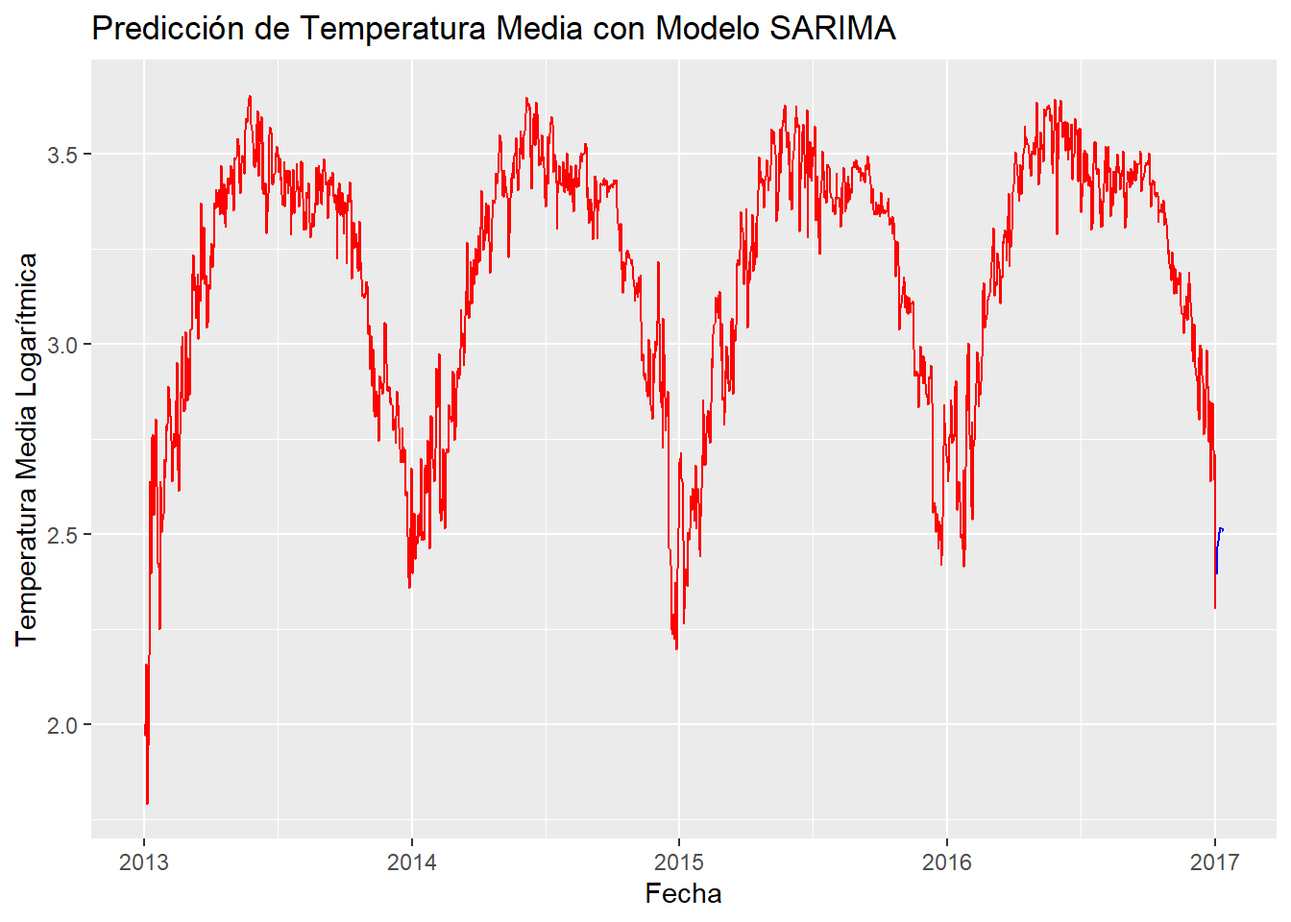
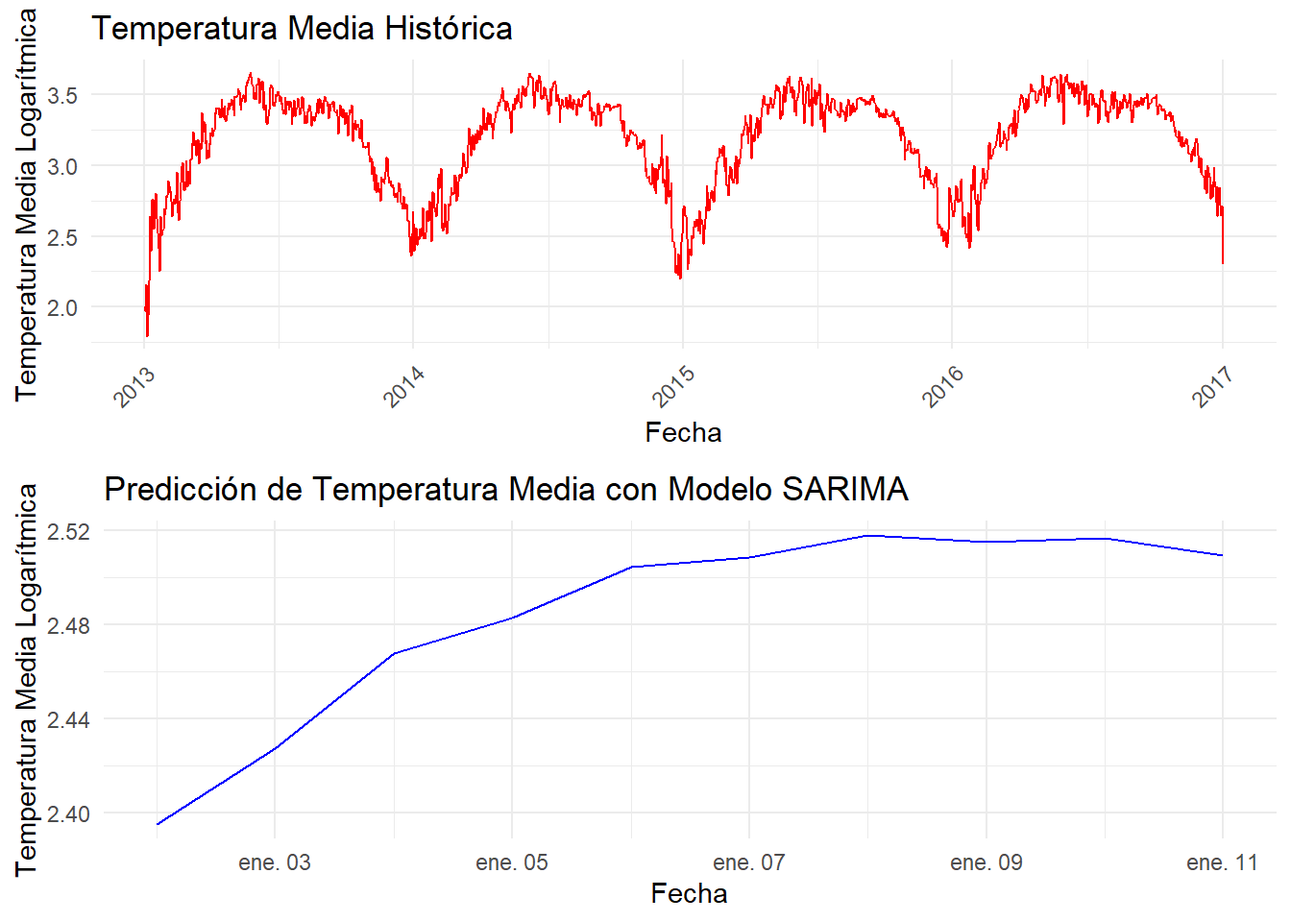
bb

diff --git a/modulo-3---unidad-2.html b/modulo-3---unidad-2.html
@@ -4,18 +4,18 @@
 
   <meta charset="utf-8" />
   <meta http-equiv="X-UA-Compatible" content="IE=edge" />
-  <title>Documento Bookdown Propuesta</title>
+  <title>Chapter 7 Modulo 3 - Unidad 2 | Documento Bookdown Propuesta</title>
   <meta name="description" content="Bookdown propuesto para la asignatura Series de Tiempo." />
   <meta name="generator" content="bookdown 0.35 and GitBook 2.6.7" />
 
-  <meta property="og:title" content="Documento Bookdown Propuesta" />
+  <meta property="og:title" content="Chapter 7 Modulo 3 - Unidad 2 | Documento Bookdown Propuesta" />
   <meta property="og:type" content="book" />
   
   <meta property="og:description" content="Bookdown propuesto para la asignatura Series de Tiempo." />
   <meta name="github-repo" content="rstudio/bookdown-demo" />
 
   <meta name="twitter:card" content="summary" />
-  <meta name="twitter:title" content="Documento Bookdown Propuesta" />
+  <meta name="twitter:title" content="Chapter 7 Modulo 3 - Unidad 2 | Documento Bookdown Propuesta" />
   
   <meta name="twitter:description" content="Bookdown propuesto para la asignatura Series de Tiempo." />
   
@@ -29,8 +29,8 @@
   <meta name="apple-mobile-web-app-status-bar-style" content="black" />
   
   
+<link rel="prev" href="modulo-2---unidad-2.html"/>
 
-<link rel="next" href="modulo-1---unidad-1.html"/>
 <script src="libs/jquery-3.6.0/jquery-3.6.0.min.js"></script>
 <script src="https://cdn.jsdelivr.net/npm/fuse.js@6.4.6/dist/fuse.min.js"></script>
 <link href="libs/gitbook-2.6.7/css/style.css" rel="stylesheet" />
@@ -193,34 +193,96 @@ code span.wa { color: #60a0b0; font-weight: bold; font-style: italic; } /* Warni
           <div class="page-inner">
 
             <section class="normal" id="section-">
-<div id="header">
-<h1 class="title">Documento Bookdown Propuesta</h1>
-<p class="author"><em>Diego Fernando Ortiz</em></p>
-<p class="date"><em>Daily Climate time series data</em></p>
-</div>
-<div id="inicio" class="section level1 hasAnchor" number="1">
-<h1><span class="header-section-number">Chapter 1</span> Inicio<a href="inicio.html#inicio" class="anchor-section" aria-label="Anchor link to header"></a></h1>
-<p><strong>Fuente:</strong> <a href="https://www.kaggle.com/datasets/sumanthvrao/daily-climate-time-series-data">Kaggle</a></p>
+<div id="modulo-3---unidad-2" class="section level1 hasAnchor" number="7">
+<h1><span class="header-section-number">Chapter 7</span> Modulo 3 - Unidad 2<a href="modulo-3---unidad-2.html#modulo-3---unidad-2" class="anchor-section" aria-label="Anchor link to header"></a></h1>
+<div class="sourceCode" id="cb76"><pre class="sourceCode r"><code class="sourceCode r"><span id="cb76-1"><a href="modulo-3---unidad-2.html#cb76-1" tabindex="-1"></a><span class="co"># Cargar las librerías necesarias</span></span>
+<span id="cb76-2"><a href="modulo-3---unidad-2.html#cb76-2" tabindex="-1"></a><span class="fu">library</span>(prophet)</span>
+<span id="cb76-3"><a href="modulo-3---unidad-2.html#cb76-3" tabindex="-1"></a><span class="fu">library</span>(dplyr)</span>
+<span id="cb76-4"><a href="modulo-3---unidad-2.html#cb76-4" tabindex="-1"></a></span>
+<span id="cb76-5"><a href="modulo-3---unidad-2.html#cb76-5" tabindex="-1"></a><span class="co"># Cargar el dataset</span></span>
+<span id="cb76-6"><a href="modulo-3---unidad-2.html#cb76-6" tabindex="-1"></a>ruta <span class="ot">&lt;-</span> <span class="st">&quot;C:/Users/Diego Ortiz/OneDrive/Documentos/Series de tiempo/Series1/ST1/DailyDelhiClimateTrain.csv&quot;</span></span>
+<span id="cb76-7"><a href="modulo-3---unidad-2.html#cb76-7" tabindex="-1"></a>data <span class="ot">&lt;-</span> <span class="fu">read.csv</span>(ruta)</span>
+<span id="cb76-8"><a href="modulo-3---unidad-2.html#cb76-8" tabindex="-1"></a></span>
+<span id="cb76-9"><a href="modulo-3---unidad-2.html#cb76-9" tabindex="-1"></a><span class="co"># Ajuste del formato de la fecha y creación del DataFrame requerido para Prophet</span></span>
+<span id="cb76-10"><a href="modulo-3---unidad-2.html#cb76-10" tabindex="-1"></a>data <span class="ot">&lt;-</span> data <span class="sc">%&gt;%</span></span>
+<span id="cb76-11"><a href="modulo-3---unidad-2.html#cb76-11" tabindex="-1"></a>  <span class="fu">mutate</span>(<span class="at">ds =</span> <span class="fu">as.Date</span>(date),</span>
+<span id="cb76-12"><a href="modulo-3---unidad-2.html#cb76-12" tabindex="-1"></a>         <span class="at">y =</span> <span class="fu">log</span>(meantemp)) <span class="sc">%&gt;%</span></span>
+<span id="cb76-13"><a href="modulo-3---unidad-2.html#cb76-13" tabindex="-1"></a>  <span class="fu">select</span>(ds, y)</span>
+<span id="cb76-14"><a href="modulo-3---unidad-2.html#cb76-14" tabindex="-1"></a></span>
+<span id="cb76-15"><a href="modulo-3---unidad-2.html#cb76-15" tabindex="-1"></a><span class="co"># Verificar los primeros registros</span></span>
+<span id="cb76-16"><a href="modulo-3---unidad-2.html#cb76-16" tabindex="-1"></a><span class="fu">head</span>(data)</span></code></pre></div>
+<pre><code>##           ds        y
+## 1 2013-01-01 2.302585
+## 2 2013-01-02 2.001480
+## 3 2013-01-03 1.969441
+## 4 2013-01-04 2.159484
+## 5 2013-01-05 1.791759
+## 6 2013-01-06 1.945910</code></pre>
+<div class="sourceCode" id="cb78"><pre class="sourceCode r"><code class="sourceCode r"><span id="cb78-1"><a href="modulo-3---unidad-2.html#cb78-1" tabindex="-1"></a><span class="co"># Crear un DataFrame para las fechas futuras</span></span>
+<span id="cb78-2"><a href="modulo-3---unidad-2.html#cb78-2" tabindex="-1"></a>future <span class="ot">&lt;-</span> <span class="fu">make_future_dataframe</span>(prophet_model, <span class="at">periods =</span> <span class="dv">365</span>)  <span class="co"># Predice para un año más</span></span>
+<span id="cb78-3"><a href="modulo-3---unidad-2.html#cb78-3" tabindex="-1"></a></span>
+<span id="cb78-4"><a href="modulo-3---unidad-2.html#cb78-4" tabindex="-1"></a><span class="co"># Realizar la predicción</span></span>
+<span id="cb78-5"><a href="modulo-3---unidad-2.html#cb78-5" tabindex="-1"></a>forecast <span class="ot">&lt;-</span> <span class="fu">predict</span>(prophet_model, future)</span>
+<span id="cb78-6"><a href="modulo-3---unidad-2.html#cb78-6" tabindex="-1"></a></span>
+<span id="cb78-7"><a href="modulo-3---unidad-2.html#cb78-7" tabindex="-1"></a><span class="co"># Visualización de las predicciones</span></span>
+<span id="cb78-8"><a href="modulo-3---unidad-2.html#cb78-8" tabindex="-1"></a><span class="fu">prophet_plot_components</span>(prophet_model, forecast)</span></code></pre></div>
+<p><img src="index_files/figure-html/unnamed-chunk-41-1.png" width="672" />
+<strong>Tendencia (Trend):</strong></p>
+<p>La primera gráfica muestra la tendencia general de la serie temporal. Se observa un aumento gradual de la temperatura media logarítmica a lo largo del tiempo.</p>
+<p><strong>Estacionalidad Semanal (Weekly Seasonality):</strong></p>
+<p>La segunda gráfica muestra la estacionalidad semanal. Se observa que los miércoles tienden a ser ligeramente más cálidos en comparación con otros días de la semana.</p>
+<p><strong>Estacionalidad Anual (Yearly Seasonality):</strong></p>
+<p>La tercera gráfica muestra la estacionalidad anual. Se puede ver que las temperaturas tienden a ser más altas alrededor de julio y más bajas alrededor de enero, lo cual es consistente con los patrones climáticos estacionales.</p>
+<div class="sourceCode" id="cb79"><pre class="sourceCode r"><code class="sourceCode r"><span id="cb79-1"><a href="modulo-3---unidad-2.html#cb79-1" tabindex="-1"></a><span class="co"># Plotear las predicciones</span></span>
+<span id="cb79-2"><a href="modulo-3---unidad-2.html#cb79-2" tabindex="-1"></a><span class="fu">plot</span>(prophet_model, forecast) <span class="sc">+</span></span>
+<span id="cb79-3"><a href="modulo-3---unidad-2.html#cb79-3" tabindex="-1"></a>  <span class="fu">labs</span>(<span class="at">title =</span> <span class="st">&quot;Predicción de Temperatura Media con Prophet&quot;</span>,</span>
+<span id="cb79-4"><a href="modulo-3---unidad-2.html#cb79-4" tabindex="-1"></a>       <span class="at">x =</span> <span class="st">&quot;Fecha&quot;</span>, <span class="at">y =</span> <span class="st">&quot;Temperatura Media Logarítmica&quot;</span>)</span></code></pre></div>
+<p><img src="index_files/figure-html/unnamed-chunk-42-1.png" width="672" /></p>
+<p><strong>Datos Históricos:</strong></p>
 <ul>
-<li><p><strong>Relevancia Temática</strong>
-Aunque el dataset es específico de Delhi, India, la observación de tendencias y patrones en el comportamiento climático en una región que experimenta variaciones significativas puede proporcionar información valiosa. Estos datos pueden servir como un estudio comparativo para anticipar escenarios posibles en Colombia, especialmente bajo condiciones climáticas extremas similares.</p></li>
-<li><p><strong>Datos Detallados y Granulares</strong>
-El conjunto de datos ofrece mediciones diarias desde el 1 de enero de 2013 hasta el 24 de abril de 2017, proporcionando un marco detallado para el análisis de tendencias a largo plazo y variaciones estacionales en Delhi. Esta granularidad facilita el estudio detallado de la relación entre las variaciones de temperatura y otros parámetros climáticos, crucial para entender las dinámicas ambientales que pueden ser similares en otras partes del mundo, incluida Colombia.</p></li>
-<li><p><strong>Aplicabilidad de Análisis Multivariado</strong>
-Con variables como temperatura media, humedad, velocidad del viento y presión media, es posible realizar análisis multivariado para investigar cómo las fluctuaciones de estos elementos se correlacionan entre sí y afectan condiciones ambientales más amplias. Esto es relevante para estudiar posibles vínculos entre altas temperaturas y sequías, un fenómeno preocupante también en Colombia.</p></li>
-<li><p><strong>Comparación Interregional</strong>
-Mientras que este conjunto de datos es específico de una ciudad, los métodos analíticos aplicados aquí pueden ser extrapolados para comparar diferentes regiones dentro de Colombia, un país con una diversidad climática considerable. Entender cómo diferentes microclimas responden a variaciones similares en parámetros climáticos puede ofrecer insights cruciales para la gestión de recursos y la preparación ante eventos extremos.</p></li>
-<li><p><strong>Soporte para Modelos Predictivos</strong>
-Utilizando este conjunto de datos, podemos desarrollar y validar modelos predictivos que estimen el impacto de las variaciones climáticas en los recursos hídricos. Tales modelos no solo son pertinentes para la región de Delhi sino que pueden ser adaptados para prever y mitigar efectos similares en Colombia, especialmente en preparación para futuros eventos climáticos extremos.</p></li>
+<li>Los puntos negros representan los datos históricos de la temperatura media logarítmica. Observamos patrones estacionales anuales claramente definidos con picos en los meses de verano y valles en los meses de invierno.</li>
 </ul>
+<p><strong>Predicciones del Modelo:</strong></p>
+<ul>
+<li>La línea azul muestra las predicciones del modelo Prophet. Las áreas sombreadas en azul claro alrededor de la línea de predicción representan los intervalos de confianza de las predicciones. Estos intervalos nos dan una idea de la incertidumbre en las predicciones.</li>
+</ul>
+<p><strong>Consistencia del Modelo:</strong></p>
+<ul>
+<li>La línea de predicción sigue de cerca los datos históricos, lo que indica que el modelo Prophet ha capturado bien la estacionalidad y la tendencia de la serie temporal.</li>
+<li>Las predicciones para el futuro (a partir de 2017) muestran una tendencia continua con el mismo patrón estacional observado en los datos históricos.</li>
+</ul>
+<div id="justificación-del-uso-de-prophet" class="section level2 hasAnchor" number="7.1">
+<h2><span class="header-section-number">7.1</span> Justificación del Uso de Prophet<a href="modulo-3---unidad-2.html#justificación-del-uso-de-prophet" class="anchor-section" aria-label="Anchor link to header"></a></h2>
+<p>El uso de Prophet es justificado debido a varias razones:</p>
+<ul>
+<li><strong>Captura de Estacionalidades Complejas:</strong></li>
+</ul>
+<p>Prophet es capaz de capturar estacionalidades múltiples (diaria, semanal, anual) y permite la incorporación de efectos de festivos o eventos especiales.</p>
+<ul>
+<li><strong>Robustez a Datos Faltantes y Outliers:</strong></li>
+</ul>
+<p>Es robusto frente a datos faltantes y outliers, lo que lo hace adecuado para datos reales que pueden tener estos problemas.</p>
+<ul>
+<li><strong>Facilidad de Uso y Interpretabilidad:</strong></li>
+</ul>
+<p>La implementación es sencilla y la interpretación de los resultados es intuitiva, con componentes de tendencia y estacionalidad claramente definidos.</p>
+<ul>
+<li><strong>Predicción a Largo Plazo:</strong></li>
+</ul>
+<p>Es adecuado para predicciones a largo plazo debido a su capacidad para modelar tendencias no lineales y estacionalidades recurrentes.</p>
+<ul>
+<li><strong>Comparación con Otros Modelos:</strong></li>
+</ul>
+<p>Comparado con otros modelos como ARIMA, Prophet ofrece una metodología complementaria que es menos sensible a la necesidad de diferenciar los datos para lograr la estacionaridad.</p>
+</div>
 </div>
             </section>
 
           </div>
         </div>
       </div>
+<a href="modulo-2---unidad-2.html" class="navigation navigation-prev navigation-unique" aria-label="Previous page"><i class="fa fa-angle-left"></i></a>
 
-<a href="modulo-1---unidad-1.html" class="navigation navigation-next navigation-unique" aria-label="Next page"><i class="fa fa-angle-right"></i></a>
     </div>
   </div>
 <script src="libs/gitbook-2.6.7/js/app.min.js"></script>

diff --git a/modulo-2---unidad-2.html b/modulo-2---unidad-2.html
@@ -30,7 +30,7 @@
   
   
 <link rel="prev" href="modulo-2---unidad-1.html"/>
-
+<link rel="next" href="modulo-3---unidad-2.html"/>
 <script src="libs/jquery-3.6.0/jquery-3.6.0.min.js"></script>
 <script src="https://cdn.jsdelivr.net/npm/fuse.js@6.4.6/dist/fuse.min.js"></script>
 <link href="libs/gitbook-2.6.7/css/style.css" rel="stylesheet" />
@@ -171,6 +171,10 @@ code span.wa { color: #60a0b0; font-weight: bold; font-style: italic; } /* Warni
 <li class="chapter" data-level="6.4" data-path="modulo-2---unidad-2.html"><a href="modulo-2---unidad-2.html#diagnóstico-del-modelo"><i class="fa fa-check"></i><b>6.4</b> Diagnóstico del Modelo</a></li>
 <li class="chapter" data-level="6.5" data-path="modulo-2---unidad-2.html"><a href="modulo-2---unidad-2.html#previsión-futura"><i class="fa fa-check"></i><b>6.5</b> Previsión Futura</a></li>
 <li class="chapter" data-level="6.6" data-path="modulo-2---unidad-2.html"><a href="modulo-2---unidad-2.html#sarima"><i class="fa fa-check"></i><b>6.6</b> SARIMA</a></li>
+</ul></li>
+<li class="chapter" data-level="7" data-path="modulo-3---unidad-2.html"><a href="modulo-3---unidad-2.html"><i class="fa fa-check"></i><b>7</b> Modulo 3 - Unidad 2</a>
+<ul>
+<li class="chapter" data-level="7.1" data-path="modulo-3---unidad-2.html"><a href="modulo-3---unidad-2.html#justificación-del-uso-de-prophet"><i class="fa fa-check"></i><b>7.1</b> Justificación del Uso de Prophet</a></li>
 </ul></li>
 </ul>
 
@@ -475,13 +479,30 @@ La prueba de Ljung-Box se utiliza para verificar la autocorrelación en los resi
 <span id="cb75-5"><a href="modulo-2---unidad-2.html#cb75-5" tabindex="-1"></a>future_dates <span class="ot">&lt;-</span> <span class="fu">seq</span>(<span class="fu">max</span>(data<span class="sc">$</span>date) <span class="sc">+</span> <span class="dv">1</span>, <span class="at">by =</span> <span class="st">&quot;day&quot;</span>, <span class="at">length.out =</span> <span class="dv">10</span>)</span>
 <span id="cb75-6"><a href="modulo-2---unidad-2.html#cb75-6" tabindex="-1"></a>future_data <span class="ot">&lt;-</span> <span class="fu">data.frame</span>(<span class="at">date =</span> future_dates, <span class="at">meantemp_log =</span> sarima_forecast<span class="sc">$</span>mean)</span>
 <span id="cb75-7"><a href="modulo-2---unidad-2.html#cb75-7" tabindex="-1"></a></span>
-<span id="cb75-8"><a href="modulo-2---unidad-2.html#cb75-8" tabindex="-1"></a><span class="co"># Visualización de las predicciones</span></span>
-<span id="cb75-9"><a href="modulo-2---unidad-2.html#cb75-9" tabindex="-1"></a><span class="fu">ggplot</span>() <span class="sc">+</span></span>
-<span id="cb75-10"><a href="modulo-2---unidad-2.html#cb75-10" tabindex="-1"></a>  <span class="fu">geom_line</span>(<span class="at">data =</span> data, <span class="fu">aes</span>(<span class="at">x =</span> date, <span class="at">y =</span> meantemp_log), <span class="at">color =</span> <span class="st">&quot;red&quot;</span>) <span class="sc">+</span></span>
-<span id="cb75-11"><a href="modulo-2---unidad-2.html#cb75-11" tabindex="-1"></a>  <span class="fu">geom_line</span>(<span class="at">data =</span> future_data, <span class="fu">aes</span>(<span class="at">x =</span> date, <span class="at">y =</span> meantemp_log), <span class="at">color =</span> <span class="st">&quot;blue&quot;</span>) <span class="sc">+</span></span>
-<span id="cb75-12"><a href="modulo-2---unidad-2.html#cb75-12" tabindex="-1"></a>  <span class="fu">labs</span>(<span class="at">title =</span> <span class="st">&quot;Predicción de Temperatura Media con Modelo SARIMA&quot;</span>,</span>
-<span id="cb75-13"><a href="modulo-2---unidad-2.html#cb75-13" tabindex="-1"></a>       <span class="at">x =</span> <span class="st">&quot;Fecha&quot;</span>, <span class="at">y =</span> <span class="st">&quot;Temperatura Media Logarítmica&quot;</span>)</span></code></pre></div>
+<span id="cb75-8"><a href="modulo-2---unidad-2.html#cb75-8" tabindex="-1"></a><span class="co"># Gráfico de los datos históricos</span></span>
+<span id="cb75-9"><a href="modulo-2---unidad-2.html#cb75-9" tabindex="-1"></a>p1 <span class="ot">&lt;-</span> <span class="fu">ggplot</span>(data, <span class="fu">aes</span>(<span class="at">x =</span> date, <span class="at">y =</span> meantemp_log)) <span class="sc">+</span></span>
+<span id="cb75-10"><a href="modulo-2---unidad-2.html#cb75-10" tabindex="-1"></a>  <span class="fu">geom_line</span>(<span class="at">color =</span> <span class="st">&quot;red&quot;</span>) <span class="sc">+</span></span>
+<span id="cb75-11"><a href="modulo-2---unidad-2.html#cb75-11" tabindex="-1"></a>  <span class="fu">labs</span>(<span class="at">title =</span> <span class="st">&quot;Temperatura Media Histórica&quot;</span>,</span>
+<span id="cb75-12"><a href="modulo-2---unidad-2.html#cb75-12" tabindex="-1"></a>       <span class="at">x =</span> <span class="st">&quot;Fecha&quot;</span>, <span class="at">y =</span> <span class="st">&quot;Temperatura Media Logarítmica&quot;</span>) <span class="sc">+</span></span>
+<span id="cb75-13"><a href="modulo-2---unidad-2.html#cb75-13" tabindex="-1"></a>  <span class="fu">theme_minimal</span>() <span class="sc">+</span></span>
+<span id="cb75-14"><a href="modulo-2---unidad-2.html#cb75-14" tabindex="-1"></a>  <span class="fu">scale_x_date</span>(<span class="at">date_labels =</span> <span class="st">&quot;%Y&quot;</span>, <span class="at">date_breaks =</span> <span class="st">&quot;1 year&quot;</span>) <span class="sc">+</span></span>
+<span id="cb75-15"><a href="modulo-2---unidad-2.html#cb75-15" tabindex="-1"></a>  <span class="fu">theme</span>(<span class="at">axis.text.x =</span> <span class="fu">element_text</span>(<span class="at">angle =</span> <span class="dv">45</span>, <span class="at">hjust =</span> <span class="dv">1</span>))</span>
+<span id="cb75-16"><a href="modulo-2---unidad-2.html#cb75-16" tabindex="-1"></a></span>
+<span id="cb75-17"><a href="modulo-2---unidad-2.html#cb75-17" tabindex="-1"></a><span class="co"># Gráfico de las predicciones futuras</span></span>
+<span id="cb75-18"><a href="modulo-2---unidad-2.html#cb75-18" tabindex="-1"></a>p2 <span class="ot">&lt;-</span> <span class="fu">ggplot</span>(future_data, <span class="fu">aes</span>(<span class="at">x =</span> date, <span class="at">y =</span> meantemp_log)) <span class="sc">+</span></span>
+<span id="cb75-19"><a href="modulo-2---unidad-2.html#cb75-19" tabindex="-1"></a>  <span class="fu">geom_line</span>(<span class="at">color =</span> <span class="st">&quot;blue&quot;</span>) <span class="sc">+</span></span>
+<span id="cb75-20"><a href="modulo-2---unidad-2.html#cb75-20" tabindex="-1"></a>  <span class="fu">labs</span>(<span class="at">title =</span> <span class="st">&quot;Predicción de Temperatura Media con Modelo SARIMA&quot;</span>,</span>
+<span id="cb75-21"><a href="modulo-2---unidad-2.html#cb75-21" tabindex="-1"></a>       <span class="at">x =</span> <span class="st">&quot;Fecha&quot;</span>, <span class="at">y =</span> <span class="st">&quot;Temperatura Media Logarítmica&quot;</span>) <span class="sc">+</span></span>
+<span id="cb75-22"><a href="modulo-2---unidad-2.html#cb75-22" tabindex="-1"></a>  <span class="fu">theme_minimal</span>()</span>
+<span id="cb75-23"><a href="modulo-2---unidad-2.html#cb75-23" tabindex="-1"></a></span>
+<span id="cb75-24"><a href="modulo-2---unidad-2.html#cb75-24" tabindex="-1"></a><span class="co"># Mostrar ambos gráficos</span></span>
+<span id="cb75-25"><a href="modulo-2---unidad-2.html#cb75-25" tabindex="-1"></a><span class="fu">library</span>(gridExtra)</span>
+<span id="cb75-26"><a href="modulo-2---unidad-2.html#cb75-26" tabindex="-1"></a><span class="fu">grid.arrange</span>(p1, p2, <span class="at">ncol =</span> <span class="dv">1</span>)</span></code></pre></div>
 <p><img src="index_files/figure-html/unnamed-chunk-38-1.png" width="672" /></p>
+<p><strong>Históricos:</strong></p>
+<p>El gráfico superior muestra las temperaturas medias logarítmicas históricas con una estacionalidad clara. Los picos y valles anuales son evidentes.</p>
+<p><strong>Predicciones Futura:</strong></p>
+<p>El gráfico inferior muestra la predicción futura para los próximos 10 días, con un aumento gradual y una estabilización.</p>
 </div>
 </div>
             </section>
@@ -489,8 +510,8 @@ La prueba de Ljung-Box se utiliza para verificar la autocorrelación en los resi
           </div>
         </div>
       </div>
-<a href="modulo-2---unidad-1.html" class="navigation navigation-prev navigation-unique" aria-label="Previous page"><i class="fa fa-angle-left"></i></a>
-
+<a href="modulo-2---unidad-1.html" class="navigation navigation-prev " aria-label="Previous page"><i class="fa fa-angle-left"></i></a>
+<a href="modulo-3---unidad-2.html" class="navigation navigation-next " aria-label="Next page"><i class="fa fa-angle-right"></i></a>
     </div>
   </div>
 <script src="libs/gitbook-2.6.7/js/app.min.js"></script>

diff --git a/modulo-1---unidad-1.html b/modulo-1---unidad-1.html
@@ -172,6 +172,10 @@ code span.wa { color: #60a0b0; font-weight: bold; font-style: italic; } /* Warni
 <li class="chapter" data-level="6.5" data-path="modulo-2---unidad-2.html"><a href="modulo-2---unidad-2.html#previsión-futura"><i class="fa fa-check"></i><b>6.5</b> Previsión Futura</a></li>
 <li class="chapter" data-level="6.6" data-path="modulo-2---unidad-2.html"><a href="modulo-2---unidad-2.html#sarima"><i class="fa fa-check"></i><b>6.6</b> SARIMA</a></li>
 </ul></li>
+<li class="chapter" data-level="7" data-path="modulo-3---unidad-2.html"><a href="modulo-3---unidad-2.html"><i class="fa fa-check"></i><b>7</b> Modulo 3 - Unidad 2</a>
+<ul>
+<li class="chapter" data-level="7.1" data-path="modulo-3---unidad-2.html"><a href="modulo-3---unidad-2.html#justificación-del-uso-de-prophet"><i class="fa fa-check"></i><b>7.1</b> Justificación del Uso de Prophet</a></li>
+</ul></li>
 </ul>
 
       </nav>

diff --git a/modulo-1---unidad-2.html b/modulo-1---unidad-2.html
@@ -172,6 +172,10 @@ code span.wa { color: #60a0b0; font-weight: bold; font-style: italic; } /* Warni
 <li class="chapter" data-level="6.5" data-path="modulo-2---unidad-2.html"><a href="modulo-2---unidad-2.html#previsión-futura"><i class="fa fa-check"></i><b>6.5</b> Previsión Futura</a></li>
 <li class="chapter" data-level="6.6" data-path="modulo-2---unidad-2.html"><a href="modulo-2---unidad-2.html#sarima"><i class="fa fa-check"></i><b>6.6</b> SARIMA</a></li>
 </ul></li>
+<li class="chapter" data-level="7" data-path="modulo-3---unidad-2.html"><a href="modulo-3---unidad-2.html"><i class="fa fa-check"></i><b>7</b> Modulo 3 - Unidad 2</a>
+<ul>
+<li class="chapter" data-level="7.1" data-path="modulo-3---unidad-2.html"><a href="modulo-3---unidad-2.html#justificación-del-uso-de-prophet"><i class="fa fa-check"></i><b>7.1</b> Justificación del Uso de Prophet</a></li>
+</ul></li>
 </ul>
 
       </nav>

diff --git a/modulo-1---unidad-3.html b/modulo-1---unidad-3.html
@@ -172,6 +172,10 @@ code span.wa { color: #60a0b0; font-weight: bold; font-style: italic; } /* Warni
 <li class="chapter" data-level="6.5" data-path="modulo-2---unidad-2.html"><a href="modulo-2---unidad-2.html#previsión-futura"><i class="fa fa-check"></i><b>6.5</b> Previsión Futura</a></li>
 <li class="chapter" data-level="6.6" data-path="modulo-2---unidad-2.html"><a href="modulo-2---unidad-2.html#sarima"><i class="fa fa-check"></i><b>6.6</b> SARIMA</a></li>
 </ul></li>
+<li class="chapter" data-level="7" data-path="modulo-3---unidad-2.html"><a href="modulo-3---unidad-2.html"><i class="fa fa-check"></i><b>7</b> Modulo 3 - Unidad 2</a>
+<ul>
+<li class="chapter" data-level="7.1" data-path="modulo-3---unidad-2.html"><a href="modulo-3---unidad-2.html#justificación-del-uso-de-prophet"><i class="fa fa-check"></i><b>7.1</b> Justificación del Uso de Prophet</a></li>
+</ul></li>
 </ul>
 
       </nav>

diff --git a/modulo-2---unidad-1.html b/modulo-2---unidad-1.html
@@ -172,6 +172,10 @@ code span.wa { color: #60a0b0; font-weight: bold; font-style: italic; } /* Warni
 <li class="chapter" data-level="6.5" data-path="modulo-2---unidad-2.html"><a href="modulo-2---unidad-2.html#previsión-futura"><i class="fa fa-check"></i><b>6.5</b> Previsión Futura</a></li>
 <li class="chapter" data-level="6.6" data-path="modulo-2---unidad-2.html"><a href="modulo-2---unidad-2.html#sarima"><i class="fa fa-check"></i><b>6.6</b> SARIMA</a></li>
 </ul></li>
+<li class="chapter" data-level="7" data-path="modulo-3---unidad-2.html"><a href="modulo-3---unidad-2.html"><i class="fa fa-check"></i><b>7</b> Modulo 3 - Unidad 2</a>
+<ul>
+<li class="chapter" data-level="7.1" data-path="modulo-3---unidad-2.html"><a href="modulo-3---unidad-2.html#justificación-del-uso-de-prophet"><i class="fa fa-check"></i><b>7.1</b> Justificación del Uso de Prophet</a></li>
+</ul></li>
 </ul>
 
       </nav>
